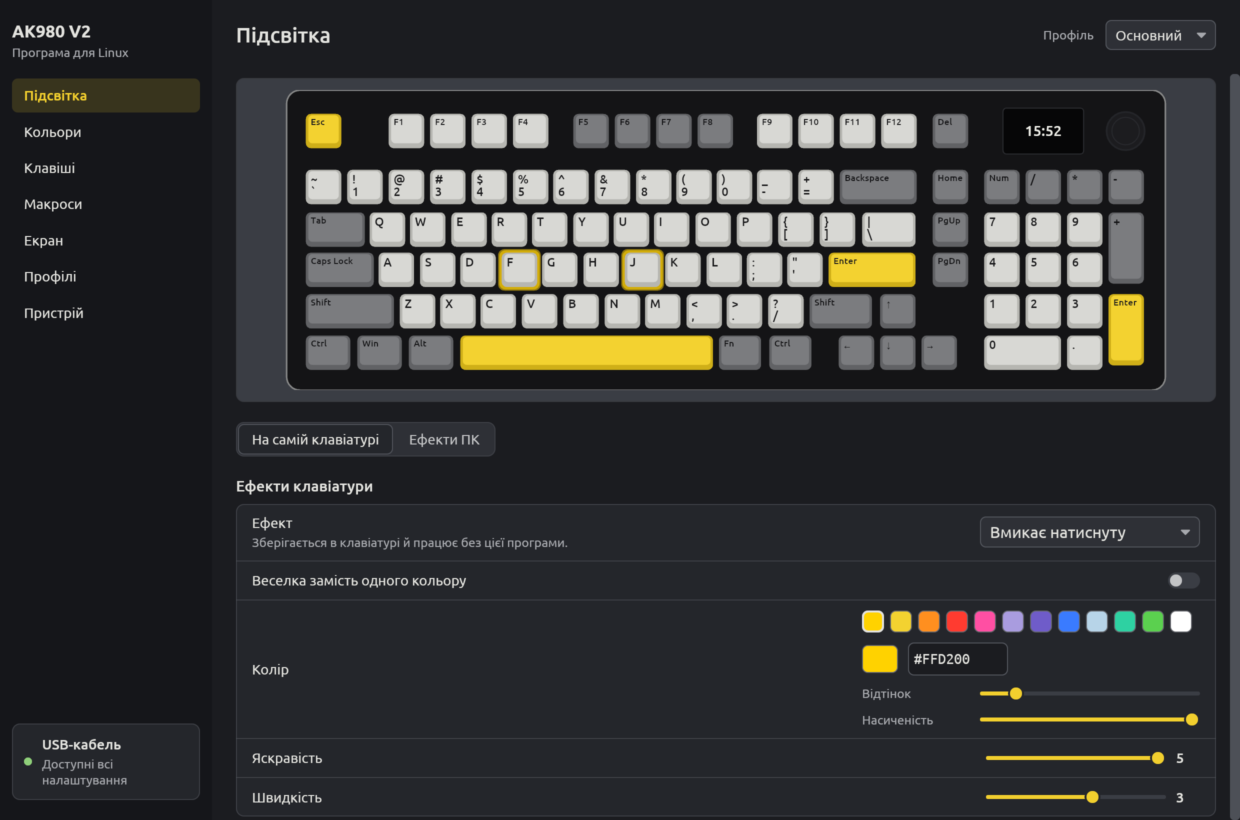
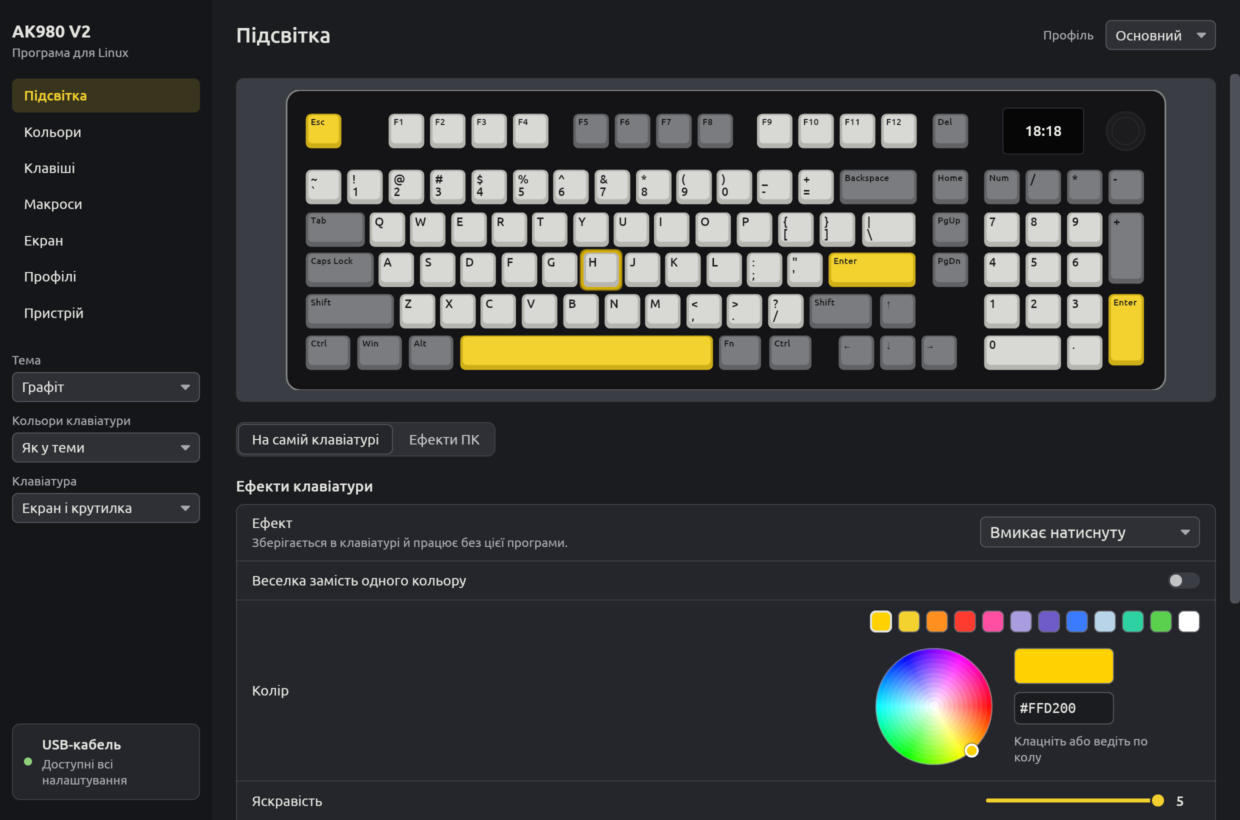
Screenshots with the new looks: Colours in Mint, Keys in Frost, Profiles in Dusk
Also the sidebar, the colour wheel and the Reminders section; the
screenshot test draws a demo reminder and takes AK980_SHOTS_MODEL.

diff --git a/crates/ak980-gui/src/main.rs b/crates/ak980-gui/src/main.rs
@@ -83,11 +83,11 @@ mod screenshots {
     const SHOTS: [(Page, &str); 8] = [
         (Page::Lighting, "graphite"),
         (Page::Lighting, "lavender"),
-        (Page::Colours, "graphite"),
-        (Page::Keys, "lavender"),
+        (Page::Colours, "mint"),
+        (Page::Keys, "frost"),
         (Page::Macros, "lavender"),
         (Page::Screen, "graphite"),
-        (Page::Profiles, "lavender"),
+        (Page::Profiles, "dusk"),
         (Page::Device, "graphite"),
     ];
 

diff --git a/README.uk.md b/README.uk.md
@@ -184,10 +184,10 @@ AK980 з Insert, Print Screen, Scroll Lock і Pause на їхньому місц
 |---|---|
 | ![Екран](docs/screenshots/uk/screen-graphite.png) | **Екран.** Відкрийте GIF, зображення або теку пронумерованих кадрів. Впишіть, заповніть чи розтягніть; підкрутіть яскравість, контраст і насиченість; змініть швидкість або дайте всім кадрам однакову затримку; обріжте кадри чи беріть кожен N-й, щоб вміститися в 140; поверніть, збільште частину й посуньте її, залиште чіткі пікселі для піксель-арту, змініть тон чи зсуньте відтінки; програвайте вперед, назад чи туди й назад; додайте напис — нерухомий чи біжучим рядком, з тінню чи облямівкою. Стрічка показує всі кадри з затримками: виберіть кадр, щоб змінити його затримку чи видалити. Прев'ю — це точне 16-бітне зображення, яке покаже панель. Завантаження триває близько 0,15 с на 4 КіБ. Кожне завантаження зберігається в *Попередніх завантаженнях*, бо віддати анімацію назад клавіатура не може. |
 | ![Підсвітка](docs/screenshots/uk/lighting-graphite.png) | **Підсвітка.** *Ефекти клавіатури* — це 19 ефектів прошивки; вони лишаються й без комп'ютера («Single on» і «Single off» показано під час набору). *Ефекти ПК* рахуються тут і транслюються на клавіші, поки працює програма або фонова служба. Хвилям, що розходяться від центру, центр можна пересунути повзунками або клацанням по клавіші. *Баланс білого* вирівнює світлодіоди клавіатури (див. нижче). |
-| ![Кольори](docs/screenshots/uk/colours-graphite.png) | **Кольори.** Малюйте по клавішах: ліва кнопка фарбує (можна вести), права бере колір клавіші, середня стирає. Заливка, веселка, градієнт, WASD, стрілки, F-ряд і цифровий блок одним кліком. Кольори зберігаються в клавіатурі. |
-| ![Клавіші](docs/screenshots/uk/keys-lavender.png) | **Клавіші.** Клацніть клавішу й оберіть, що вона робить на основному шарі чи з затиснутим Fn: інша клавіша чи комбінація, кнопка або коліщатко миші, медіаклавіша, макрос (один раз, N разів, до повторного натискання, поки утримується), до трьох клавіш разом, програма чи посилання, інший профіль, або нічого. *Програма чи посилання* надсилає одну з вільних клавіш F13–F24, яку фонова служба перетворює на запуск програми, посилання чи перемикання профілю. |
+| ![Кольори](docs/screenshots/uk/colours-mint.png) | **Кольори.** Малюйте по клавішах: ліва кнопка фарбує (можна вести), права бере колір клавіші, середня стирає. Заливка, веселка, градієнт, WASD, стрілки, F-ряд і цифровий блок одним кліком. Кольори зберігаються в клавіатурі. |
+| ![Клавіші](docs/screenshots/uk/keys-frost.png) | **Клавіші.** Клацніть клавішу й оберіть, що вона робить на основному шарі чи з затиснутим Fn: інша клавіша чи комбінація, кнопка або коліщатко миші, медіаклавіша, макрос (один раз, N разів, до повторного натискання, поки утримується), до трьох клавіш разом, програма чи посилання, інший профіль, або нічого. *Програма чи посилання* надсилає одну з вільних клавіш F13–F24, яку фонова служба перетворює на запуск програми, посилання чи перемикання профілю. |
 | ![Макроси](docs/screenshots/uk/macros-lavender.png) | **Макроси.** Записуйте з клавіатури зі справжніми паузами або без них, набирайте текст, додавайте натискання клавіш і кліки миші, редагуйте кожну паузу. Смужка показує, скільки пам'яті макросів клавіатури зайнято. Клавіші посилаються на макроси за номером: після видалення запишіть знову макроси й обидва шари (програма зсуває клавіші наступних макросів разом із ними). |
-| ![Профілі](docs/screenshots/uk/profiles-lavender.png) | **Профілі.** Профіль — це все, що тримає клавіатура, плюс ефект ПК. Перемикайте з шапки або тут; експортуйте й імпортуйте файлами. *Ігри та програми* вмикає профіль, поки запущена програма (`cs2`, `eldenring.exe`, …). |
+| ![Профілі](docs/screenshots/uk/profiles-dusk.png) | **Профілі.** Профіль — це все, що тримає клавіатура, плюс ефект ПК. Перемикайте з шапки або тут; експортуйте й імпортуйте файлами. *Ігри та програми* вмикає профіль, поки запущена програма (`cs2`, `eldenring.exe`, …). |
 | ![Пристрій](docs/screenshots/uk/device-graphite.png) | **Пристрій.** Опції клавіатури, годинник і як часто його ставить фонова служба, вимірювання акумулятора, запуск фонової служби, доступ, журнал зв'язку 2.4 ГГц і *Перепідключити ресівер*, мова, сповіщення. |
 
 **Нагадування** (на сторінці *Екран* або `ak980 remind`): у заданий час у вибрані дні фонова

diff --git a/README.md b/README.md
@@ -183,10 +183,10 @@ code.
 |---|---|
 | ![Screen](docs/screenshots/en/screen-graphite.png) | **Screen.** Open a GIF, a picture or a folder of numbered frames. Fit, fill or stretch it; adjust brightness, contrast and saturation; change the speed or give every frame the same delay; cut frames or keep every Nth one to fit the 140-frame limit; turn it, zoom into a part and move it, keep sharp pixels for pixel art, change its tone or shift its hues; play it forward, backward or there and back; add a caption, still or running across the screen, with a shadow or an outline. The strip shows every frame with its delay: select one to change its delay or delete it. The preview is the exact 16-bit image the panel will show. Uploading takes about 0.15 s per 4 KiB page. Every upload is kept under *Earlier uploads*, because the keyboard cannot give an animation back. |
 | ![Lighting](docs/screenshots/en/lighting-graphite.png) | **Lighting.** *Keyboard effects* are the 19 effects of the firmware; they stay when the computer is off ("Single on" and "Single off" are shown typing). *PC effects* are computed here and streamed to the keys; they run while the app or the agent runs. Waves that spread from the centre take a centre you move with sliders or by clicking a key. *White balance* evens out the keyboard's LEDs (see below). |
-| ![Colours](docs/screenshots/en/colours-graphite.png) | **Colours.** Paint keys: left button paints (drag across keys), right button picks a key's colour, middle button clears it. Fill, rainbow, gradient, WASD, arrows, F row and numpad in one click. The colours are stored in the keyboard. |
-| ![Keys](docs/screenshots/en/keys-lavender.png) | **Keys.** Click a key, choose what it does on the base layer or while Fn is held: another key or a shortcut, a mouse button or the wheel, a media key, a macro (once, N times, until pressed again, while held), up to three keys at once, a program or a link, another profile, or nothing. *Program or link* sends one of the spare keys F13–F24, which the agent turns into the program, the link or the profile. |
+| ![Colours](docs/screenshots/en/colours-mint.png) | **Colours.** Paint keys: left button paints (drag across keys), right button picks a key's colour, middle button clears it. Fill, rainbow, gradient, WASD, arrows, F row and numpad in one click. The colours are stored in the keyboard. |
+| ![Keys](docs/screenshots/en/keys-frost.png) | **Keys.** Click a key, choose what it does on the base layer or while Fn is held: another key or a shortcut, a mouse button or the wheel, a media key, a macro (once, N times, until pressed again, while held), up to three keys at once, a program or a link, another profile, or nothing. *Program or link* sends one of the spare keys F13–F24, which the agent turns into the program, the link or the profile. |
 | ![Macros](docs/screenshots/en/macros-lavender.png) | **Macros.** Record from the keyboard with or without your real pauses, type text, add key presses and mouse clicks, edit every pause. A bar shows how much of the keyboard's macro memory is used. Keys refer to macros by number: after deleting one, write the macros and both key layers again (the app moves the keys of the later macros with them). |
-| ![Profiles](docs/screenshots/en/profiles-lavender.png) | **Profiles.** A profile is everything the keyboard holds plus the PC effect. Switch from the header or here; export and import them as files. *Games and programs* switches a profile while a program runs (`cs2`, `eldenring.exe`, …). |
+| ![Profiles](docs/screenshots/en/profiles-dusk.png) | **Profiles.** A profile is everything the keyboard holds plus the PC effect. Switch from the header or here; export and import them as files. *Games and programs* switches a profile while a program runs (`cs2`, `eldenring.exe`, …). |
 | ![Device](docs/screenshots/en/device-graphite.png) | **Device.** Keyboard options, the clock and how often the agent sets it, battery measurements, how the agent starts, access, the 2.4 GHz link record and *Reconnect the receiver*, language, notifications. |
 
 **Reminders** (on the *Screen* page, or `ak980 remind`): at a set time on the days you pick, the
